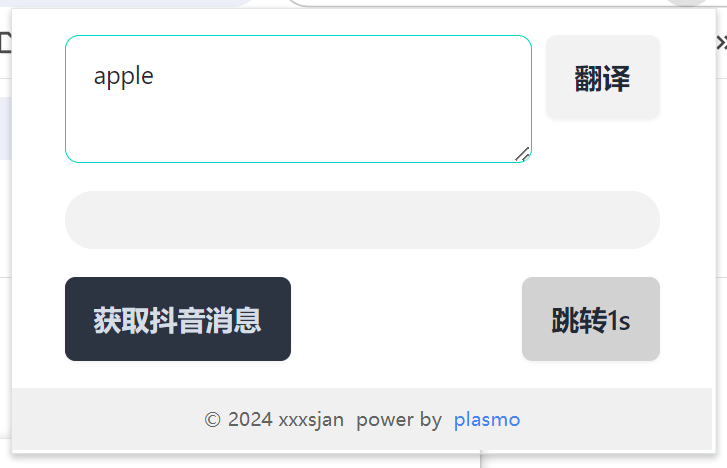
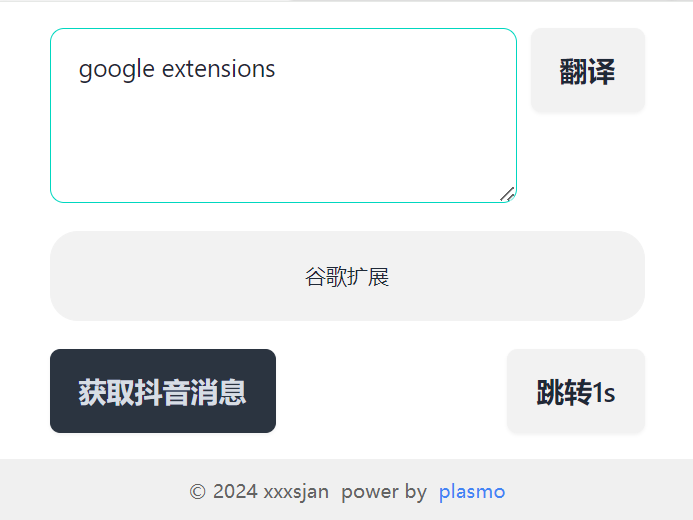
参数调整

diff --git a/src/popup.tsx b/src/popup.tsx
@@ -10,7 +10,7 @@ import "./style.css"
 console.log("icon: ", icon)
 
 function IndexPopup() {
-  const [inputVal, setInputVal] = useState("apple")
+  const [inputVal, setInputVal] = useState("")
   const [selectText, setSelectText] = useState("")
   const [transSelectText, setTransSelectText] = useState("")
   const [translateInputVal, setTranslateInputVal] = useState("")
@@ -102,7 +102,7 @@ function IndexPopup() {
       {
         action: "translate",
         payload: {
-          text: "apple"
+          text: inputVal
         }
       },
       (res) => {
@@ -197,9 +197,12 @@ function IndexPopup() {
           <button id="dyBtn" className="btn btn-neutral">
             获取抖音消息
           </button>
-          <button id="btn1s" className="btn" onClick={to1s}>
-            跳转1s
-          </button>
+
+          <div className="tooltip" data-tip="跳转编辑器查看">
+            <button className="btn" onClick={to1s}>
+              跳转1s
+            </button>
+          </div>
         </div>
 
         {/* <button id="toBg" className="btn">toBg</button>   */}
